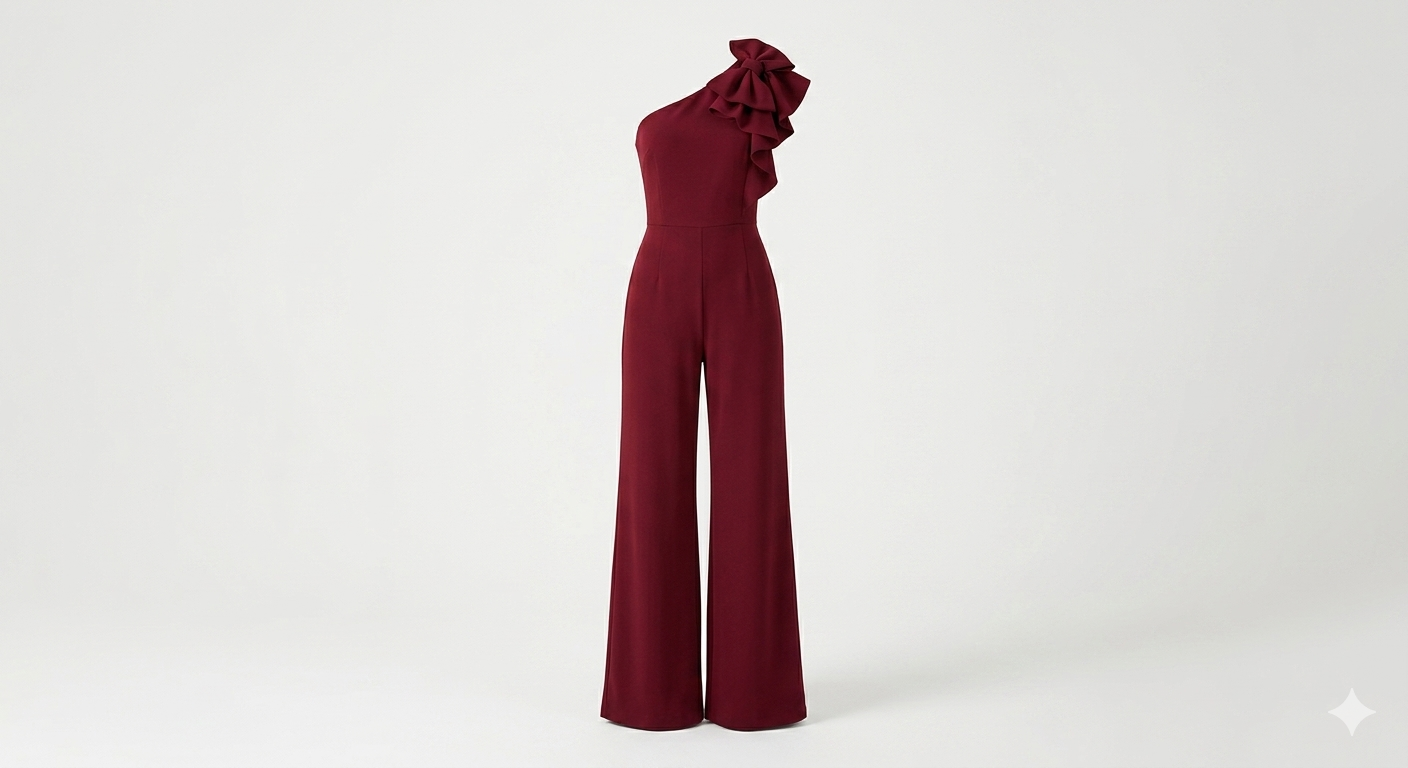
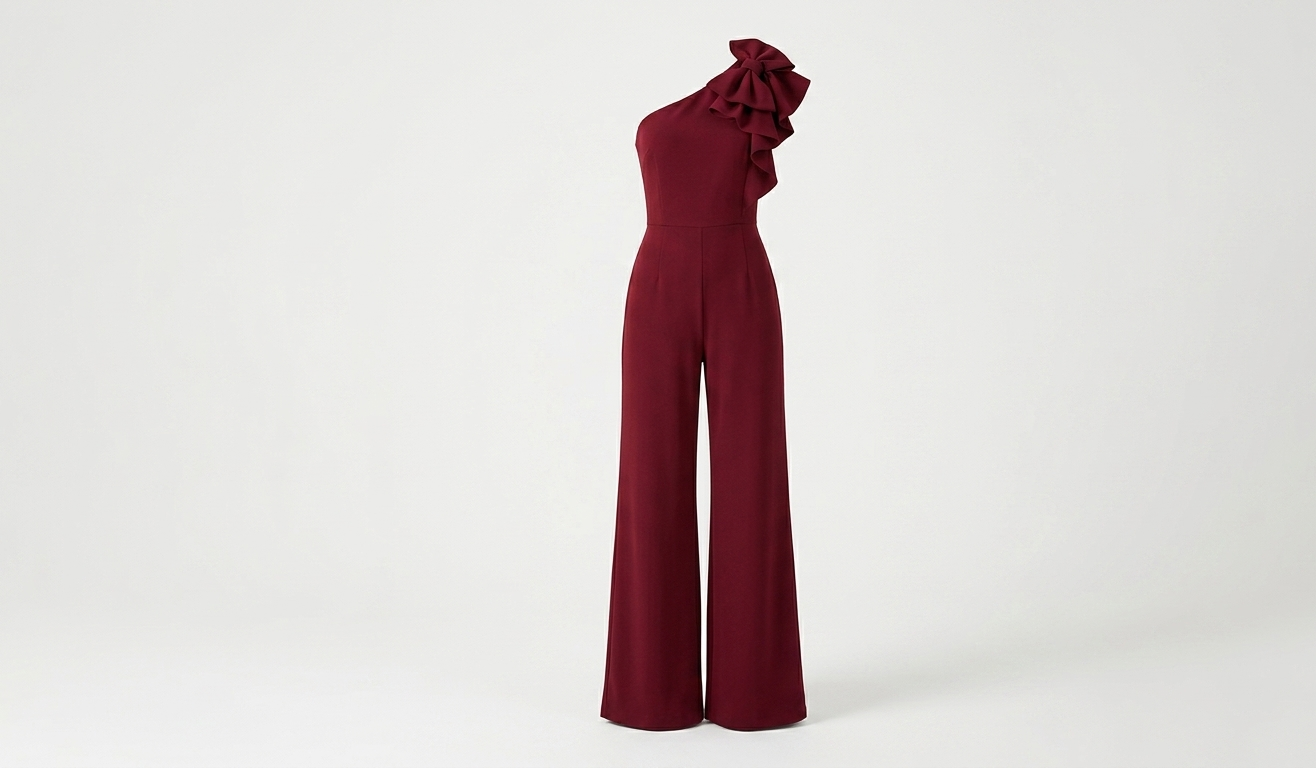
update

Changed region(s): [[0.405, 0.0312, 0.6231, 0.9688]]

diff --git a/index.html b/index.html
@@ -714,9 +714,9 @@
             flex-shrink: 0;
         }
         .about-img-card:hover { transform: translateY(-6px); box-shadow: 0 20px 50px rgba(0, 0, 0, 0.1); }
-        .about-img-card:nth-child(1) { background: linear-gradient(160deg, #F6F0E3 0%, #E8D5B0 60%, #C9A87C 100%); margin-top: 20px; }
-        .about-img-card:nth-child(2) { background: linear-gradient(160deg, #EDE1CD 0%, #D4C4A0 50%, #B8956A 100%); margin-top: -20px; }
-        .about-img-card:nth-child(3) { background: linear-gradient(160deg, #FBF7EF 0%, #E0D3B8 50%, #C4A878 100%); margin-top: 30px; }
+        .about-img-card:nth-child(1) { background: url('images/marche.png') center/cover no-repeat; margin-top: 20px; }
+        .about-img-card:nth-child(2) { background: url('images/lulu.png') center/cover no-repeat;; margin-top: -20px; }
+        .about-img-card:nth-child(3) {  background: url('images/cliente.png') center/cover no-repeat; margin-top: 30px; }
         .about-text h3 { font-family: 'Playfair Display', serif; font-size: 2rem; font-weight: 700; color: var(--text-dark); margin-bottom: 16px; }
         .about-text p { color: var(--text-medium); margin-bottom: 14px; line-height: 1.8; font-size: 0.95rem; }
         .about-values { display: flex; flex-wrap: wrap; gap: 10px; margin-top: 20px; }
@@ -1339,9 +1339,9 @@
                             <span class="product-benefit">Styles variés</span>
                             <span class="product-benefit">Tailles S-XL</span>
                         </div>
-                        <p class="product-price">À partir de 2 000 FCFA</p>
+                        <p class="product-price">À partir de 3 000 FCFA</p>
                         <button class="detail-btn" onclick="openProductModal(1)"><i class="fas fa-info-circle"></i> Voir détail</button>
-                        <a href="https://wa.me/[phone redacted]?text=Bonjour%20Tata%20lulu%2C%20je%20suis%20int%C3%A9ress%C3%A9(e)%20par%20la%20cat%C3%A9gorie%20Robe." target="_blank" class="product-btn"><i class="fab fa-whatsapp"></i> Commander</a>
+                        <a href="https://wa.me/[phone redacted]?text=Bonjour%20Tata%20lulu%2C%20je%20suis%20int%C3%A9ress%C3%A9(e)%20par%20les%20Robes." target="_blank" class="product-btn"><i class="fab fa-whatsapp"></i> Commander</a>
                     </div>
                 </div>
                 
@@ -1358,9 +1358,9 @@
                             <span class="product-benefit">Confort absolu</span>
                             <span class="product-benefit">Imprimés tendance</span>
                         </div>
-                        <p class="product-price">À partir de 4 500 FCFA</p>
+                        <p class="product-price">À partir de 2 000 FCFA</p>
                         <button class="detail-btn" onclick="openProductModal(2)"><i class="fas fa-info-circle"></i> Voir détail</button>
-                        <a href="https://wa.me/[phone redacted]?text=Bonjour%20Tata%20lulu%2C%20je%20suis%20int%C3%A9ress%C3%A9(e)%20par%20la%20cat%C3%A9gorie%20Palazzo." target="_blank" class="product-btn"><i class="fab fa-whatsapp"></i> Commander</a>
+                        <a href="https://wa.me/[phone redacted]?text=Bonjour%20Tata%20lulu%2C%20je%20suis%20int%C3%A9ress%C3%A9(e)%20par%20les%20Palazzos." target="_blank" class="product-btn"><i class="fab fa-whatsapp"></i> Commander</a>
                     </div>
                 </div>
                 
@@ -1377,9 +1377,9 @@
                             <span class="product-benefit">Coton doux</span>
                             <span class="product-benefit">Coupes modernes</span>
                         </div>
-                        <p class="product-price">À partir de 2 500 FCFA</p>
+                        <p class="product-price">À partir de 1 500 FCFA</p>
                         <button class="detail-btn" onclick="openProductModal(3)"><i class="fas fa-info-circle"></i> Voir détail</button>
-                        <a href="https://wa.me/[phone redacted]?text=Bonjour%20Tata%20lulu%2C%20je%20suis%20int%C3%A9ress%C3%A9(e)%20par%20la%20cat%C3%A9gorie%20T-shirt." target="_blank" class="product-btn"><i class="fab fa-whatsapp"></i> Commander</a>
+                        <a href="https://wa.me/[phone redacted]?text=Bonjour%20Tata%20lulu%2C%20je%20suis%20int%C3%A9ress%C3%A9(e)%20par%20les%20T-shirts." target="_blank" class="product-btn"><i class="fab fa-whatsapp"></i> Commander</a>
                     </div>
                 </div>
                 
@@ -1398,7 +1398,7 @@
                         </div>
                         <p class="product-price">À partir de 1 000 FCFA</p>
                         <button class="detail-btn" onclick="openProductModal(4)"><i class="fas fa-info-circle"></i> Voir détail</button>
-                        <a href="https://wa.me/[phone redacted]?text=Bonjour%20Tata%20lulu%2C%20je%20suis%20int%C3%A9ress%C3%A9(e)%20par%20la%20cat%C3%A9gorie%20Crop%20top." target="_blank" class="product-btn"><i class="fab fa-whatsapp"></i> Commander</a>
+                        <a href="https://wa.me/[phone redacted]?text=Bonjour%20Tata%20lulu%2C%20je%20suis%20int%C3%A9ress%C3%A9(e)%20par%20les%20Crop%20tops." target="_blank" class="product-btn"><i class="fab fa-whatsapp"></i> Commander</a>
                     </div>
                 </div>
                 
@@ -1415,9 +1415,9 @@
                             <span class="product-benefit">Maintien parfait</span>
                             <span class="product-benefit">Tissus extensibles</span>
                         </div>
-                        <p class="product-price">À partir de 3 500 FCFA</p>
+                        <p class="product-price">À partir de 1 500 FCFA</p>
                         <button class="detail-btn" onclick="openProductModal(5)"><i class="fas fa-info-circle"></i> Voir détail</button>
-                        <a href="https://wa.me/[phone redacted]?text=Bonjour%20Tata%20lulu%2C%20je%20suis%20int%C3%A9ress%C3%A9(e)%20par%20la%20cat%C3%A9gorie%20Body%20Sweet." target="_blank" class="product-btn"><i class="fab fa-whatsapp"></i> Commander</a>
+                        <a href="https://wa.me/[phone redacted]?text=Bonjour%20Tata%20lulu%2C%20je%20suis%20int%C3%A9ress%C3%A9(e)%20par%20les%20Body%20Sweets." target="_blank" class="product-btn"><i class="fab fa-whatsapp"></i> Commander</a>
                     </div>
                 </div>
                 
@@ -1434,9 +1434,9 @@
                             <span class="product-benefit">Coupe impeccable</span>
                             <span class="product-benefit">Facile d'entretien</span>
                         </div>
-                        <p class="product-price">À partir de 4 000 FCFA</p>
+                        <p class="product-price">À partir de 2 000 FCFA</p>
                         <button class="detail-btn" onclick="openProductModal(6)"><i class="fas fa-info-circle"></i> Voir détail</button>
-                        <a href="https://wa.me/[phone redacted]?text=Bonjour%20Tata%20lulu%2C%20je%20suis%20int%C3%A9ress%C3%A9(e)%20par%20la%20cat%C3%A9gorie%20Chemise." target="_blank" class="product-btn"><i class="fab fa-whatsapp"></i> Commander</a>
+                        <a href="https://wa.me/[phone redacted]?text=Bonjour%20Tata%20lulu%2C%20je%20suis%20int%C3%A9ress%C3%A9(e)%20par%20les%20Chemises." target="_blank" class="product-btn"><i class="fab fa-whatsapp"></i> Commander</a>
                     </div>
                 </div>
                 
@@ -1454,9 +1454,9 @@
                             <span class="product-benefit">Style affirmé</span>
                             <span class="product-benefit">Taille élastique</span>
                         </div>
-                        <p class="product-price">À partir de 14 000 FCFA</p>
+                        <p class="product-price">À partir de 2 500 FCFA</p>
                         <button class="detail-btn" onclick="openProductModal(7)"><i class="fas fa-info-circle"></i> Voir détail</button>
-                        <a href="https://wa.me/[phone redacted]?text=Bonjour%20Tata%20lulu%2C%20je%20suis%20int%C3%A9ress%C3%A9(e)%20par%20la%20cat%C3%A9gorie%20Combinaison." target="_blank" class="product-btn"><i class="fab fa-whatsapp"></i> Commander</a>
+                        <a href="https://wa.me/[phone redacted]?text=Bonjour%20Tata%20lulu%2C%20je%20suis%20int%C3%A9ress%C3%A9(e)%20par%20les%20Combinaisons." target="_blank" class="product-btn"><i class="fab fa-whatsapp"></i> Commander</a>
                     </div>
                 </div>
             </div>
@@ -1706,8 +1706,8 @@
                 name: 'Robe Élégance',
                 desc: 'Des robes tendance, coupées dans de belles matières, pour toutes les occasions. Chaque modèle est unique, sélectionné avec soin sur les marchés de friperie internationaux. Lavées et repassées, elles sont prêtes à être portées.',
                 benefits: ['Styles variés', 'Tailles S-XL', 'Bon état général', 'Prix doux'],
-                price: 'À partir de 5 000 FCFA',
-                whatsapp: 'https://wa.me/[phone redacted]?text=Bonjour%20Tata%20lulu%2C%20je%20suis%20int%C3%A9ress%C3%A9(e)%20par%20la%20cat%C3%A9gorie%20Robe.'
+                price: 'À partir de 3 000 FCFA',
+                whatsapp: 'https://wa.me/[phone redacted]?text=Bonjour%20Tata%20lulu%2C%20je%20suis%20int%C3%A9ress%C3%A9(e)%20par%20les%20Robe.'
             },
             2: {
                 img: 'images/palazzo.png',
@@ -1715,8 +1715,8 @@
                 name: 'Palazzo Chic',
                 desc: 'Pantalons fluides et élégants, parfaits pour un look décontracté ou habillé. Grande variété d\'imprimés et de couleurs, sélectionnés pour leur coupe flatteuse.',
                 benefits: ['Confort absolu', 'Imprimés tendance', 'Taille élastiquée', 'Pièce unique'],
-                price: 'À partir de 4 500 FCFA',
-                whatsapp: 'https://wa.me/[phone redacted]?text=Bonjour%20Tata%20lulu%2C%20je%20suis%20int%C3%A9ress%C3%A9(e)%20par%20la%20cat%C3%A9gorie%20Palazzo.'
+                price: 'À partir de 2 000 FCFA',
+                whatsapp: 'https://wa.me/[phone redacted]?text=Bonjour%20Tata%20lulu%2C%20je%20suis%20int%C3%A9ress%C3%A9(e)%20par%20les%20Palazzo.'
             },
             3: {
                 img: 'images/tshirt.png',
@@ -1724,8 +1724,8 @@
                 name: 'T-shirt Tendance',
                 desc: 'Basiques ou graphiques, nos t-shirts s\'adaptent à toutes vos envies mode. Coton doux, coupes modernes, pour un look effortless chic.',
                 benefits: ['Coton doux', 'Coupes modernes', 'Facile à porter', 'Disponible en plusieurs couleurs'],
-                price: 'À partir de 2 500 FCFA',
-                whatsapp: 'https://wa.me/[phone redacted]?text=Bonjour%20Tata%20lulu%2C%20je%20suis%20int%C3%A9ress%C3%A9(e)%20par%20la%20cat%C3%A9gorie%20T-shirt.'
+                price: 'À partir de 1 500 FCFA',
+                whatsapp: 'https://wa.me/[phone redacted]?text=Bonjour%20Tata%20lulu%2C%20je%20suis%20int%C3%A9ress%C3%A9(e)%20par%20les%20T-shirts.'
             },
             4: {
                 img: 'images/croptop.png',
@@ -1733,8 +1733,8 @@
                 name: 'Crop top Audace',
                 desc: 'Pour un look estival ou à superposer, nos crop tops sont irrésistibles. Couleurs vives, coupes tendance, de quoi réveiller votre garde-robe.',
                 benefits: ['Tendances 2025', 'Associable facilement', 'Matières agréables', 'Idéal pour les chaudes journées'],
-                price: 'À partir de 2 000 FCFA',
-                whatsapp: 'https://wa.me/[phone redacted]?text=Bonjour%20Tata%20lulu%2C%20je%20suis%20int%C3%A9ress%C3%A9(e)%20par%20la%20cat%C3%A9gorie%20Crop%20top.'
+                price: 'À partir de 1 000 FCFA',
+                whatsapp: 'https://wa.me/[phone redacted]?text=Bonjour%20Tata%20lulu%2C%20je%20suis%20int%C3%A9ress%C3%A9(e)%20par%20les%20Crop%20tops.'
             },
             5: {
                 img: 'images/body.png',
@@ -1742,8 +1742,8 @@
                 name: 'Body Sweet Sensuel',
                 desc: 'Bodys élégants, près du corps, parfaits pour un look chic et glamour. Tissus extensibles de qualité pour un maintien impeccable.',
                 benefits: ['Maintien parfait', 'Tissus extensibles', 'Look sophistiqué', 'Facile à accessoiriser'],
-                price: 'À partir de 3 500 FCFA',
-                whatsapp: 'https://wa.me/[phone redacted]?text=Bonjour%20Tata%20lulu%2C%20je%20suis%20int%C3%A9ress%C3%A9(e)%20par%20la%20cat%C3%A9gorie%20Body%20Sweet.'
+                price: 'À partir de 1 500 FCFA',
+                whatsapp: 'https://wa.me/[phone redacted]?text=Bonjour%20Tata%20lulu%2C%20je%20suis%20int%C3%A9ress%C3%A9(e)%20par%20les%20Body%20Sweets.'
             },
             6: {
                 img: 'images/chemise.png',
@@ -1751,8 +1751,8 @@
                 name: 'Chemise Raffinée',
                 desc: 'Des chemises de qualité, pour un style professionnel ou décontracté chic. Coupes impeccables, faciles d\'entretien.',
                 benefits: ['Coupe impeccable', 'Facile d\'entretien', 'Look soigné', 'Plusieurs coloris'],
-                price: 'À partir de 4 000 FCFA',
-                whatsapp: 'https://wa.me/[phone redacted]?text=Bonjour%20Tata%20lulu%2C%20je%20suis%20int%C3%A9ress%C3%A9(e)%20par%20la%20cat%C3%A9gorie%20Chemise.'
+                price: 'À partir de 2 000 FCFA',
+                whatsapp: 'https://wa.me/[phone redacted]?text=Bonjour%20Tata%20lulu%2C%20je%20suis%20int%C3%A9ress%C3%A9(e)%20par%20les%20Chemises.'
             },
             7: {
                 img: 'images/combinaison.png',
@@ -1760,8 +1760,8 @@
                 name: 'Combinaison Glamour',
                 desc: 'Des combinaisons tendance qui habillent instantanément avec caractère. Taille élastique ou ceinturée, pour un tombé parfait.',
                 benefits: ['Style affirmé', 'Taille élastique', 'Parfaite pour les soirées', 'Pièce forte du dressing'],
-                price: 'À partir de 7 000 FCFA',
-                whatsapp: 'https://wa.me/[phone redacted]?text=Bonjour%20Tata%20lulu%2C%20je%20suis%20int%C3%A9ress%C3%A9(e)%20par%20la%20cat%C3%A9gorie%20Combinaison.'
+                price: 'À partir de 2 500 FCFA',
+                whatsapp: 'https://wa.me/[phone redacted]?text=Bonjour%20Tata%20lulu%2C%20je%20suis%20int%C3%A9ress%C3%A9(e)%20par%20les%20Combinaisons.'
             }
         };
 